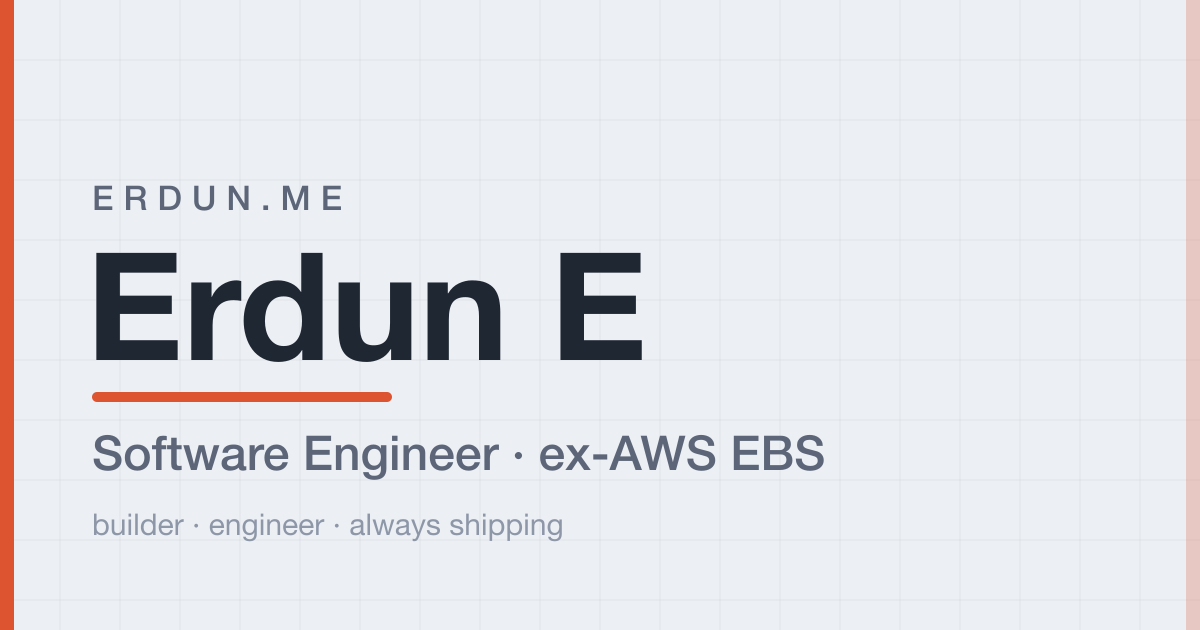
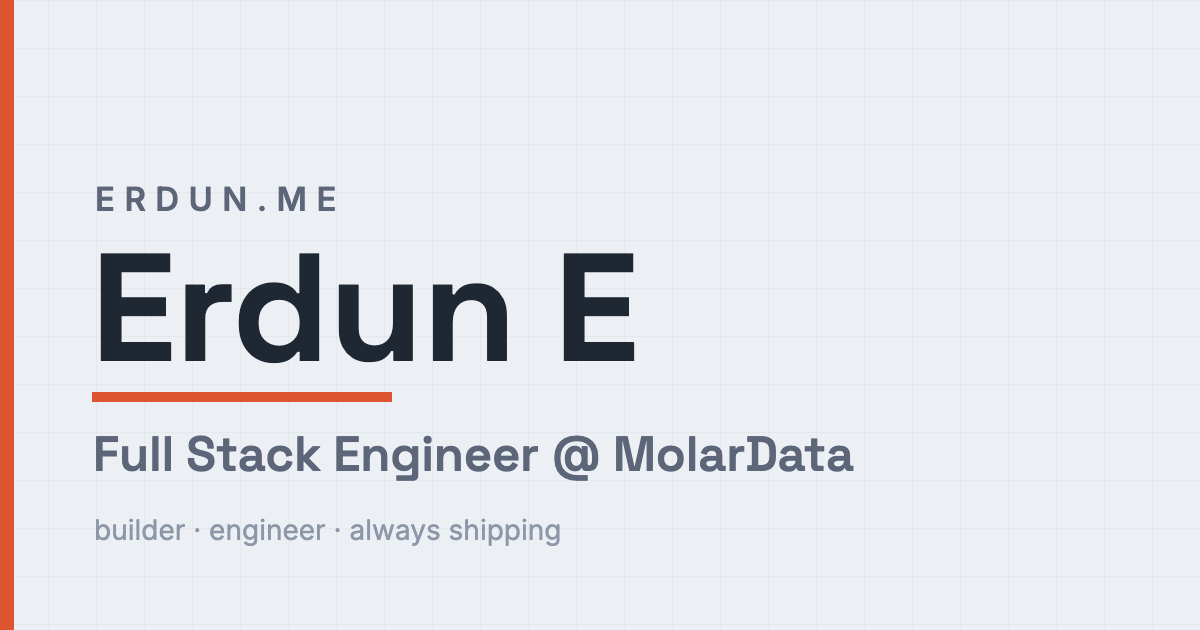
fix: refresh the share card, repair the Contact pronouns, cap a stray line length
**Share card.** og.png, og:title and og:description were written once
and never moved with the site, so the preview people see when the link
is pasted anywhere still said "Software Engineer · ex-AWS EBS" — a
line that no longer appears on the page at all — and mentioned neither
Hangzhou nor MolarData. The image is rebuilt on the same layout
(1200x630, blueprint grid, 14px accent bar, ERDUN.ME kicker, 300px
rule) with only the role line changed; measured against the old one it
matches its widths to within 1-3%. Title, description and the JSON-LD
Person follow, and the Person now carries worksFor and address.
og:image:alt was a second hardcoded copy of the title, so it now
references the title instead of drifting from it again.

**Contact pronouns.** "drop him a line" and "He is interested in..."
had no antecedent: the sentence that named Erdun was the one replaced
when the hiring language came out, and nothing else in the section
names anybody. The name goes back into the second line, which keeps
the opening question as written and restores the chain. A sweep of
every string on the site found no other dangling pronoun.

**Line length.** Experience, Projects and Testimonials all cap their
intro at max-w-3xl; Capability's lead and its technical-context note
did not, so they ran the full 1024px while every sibling stopped at
768. An omission rather than a choice, and the paragraph reflows to
the same three lines, so the section's height is unchanged.
[…]

diff --git a/web/src/lib/seo.ts b/web/src/lib/seo.ts
@@ -4,9 +4,9 @@ import { education } from "@/data/education";
 export const SITE = {
   url: "https://erdun.me",
   name: "Erdun E",
-  title: "Erdun E · Software Engineer",
+  title: "Erdun E · Full Stack Engineer",
   description:
-    "Erdun E, Software Engineer and ex-AWS EBS. Builder, engineer, always shipping. Portfolio of projects, experience, capabilities, and ways to get in touch.",
+    "Erdun E, Full Stack Engineer at MolarData in Hangzhou, ex-AWS. Builder, engineer, always shipping. Portfolio of projects, experience, and ways to get in touch.",
   ogImage: "https://erdun.me/og.png",
   locale: "en_US",
   themeColorLight: "#eceff4",
@@ -24,9 +24,20 @@ export const personJsonLd = {
   name: "Erdun E",
   url: SITE.url,
   image: SITE.ogImage,
-  jobTitle: "Software Engineer",
+  jobTitle: "Full Stack Engineer",
   description:
-    "Software Engineer and ex-AWS EBS, focused on reliable, maintainable systems.",
+    "Full Stack Engineer at MolarData in Hangzhou, previously at AWS. Focused on reliable, maintainable systems.",
+  worksFor: {
+    "@type": "Organization",
+    name: "MolarData",
+    url: "https://www.molardata.com/",
+  },
+  address: {
+    "@type": "PostalAddress",
+    addressLocality: "Hangzhou",
+    addressRegion: "Zhejiang",
+    addressCountry: "CN",
+  },
   sameAs,
   alumniOf: education.map((e) => ({
     "@type": "CollegeOrUniversity",

diff --git a/web/src/styles/global.css b/web/src/styles/global.css
@@ -649,6 +649,17 @@
     transform: scale(1.1);
   }
 }
+/* Hover lift, matching what the old cards had and what the three neighbouring
+   sections still do. Declared after the selected rule because the two have the
+   same specificity and source order decides. */
+@media (hover: hover) and (pointer: fine) and (prefers-reduced-motion: no-preference) {
+  .exp-node:hover .exp-node-tile {
+    transform: translateY(-3px);
+  }
+  .exp-node[aria-selected="true"]:hover .exp-node-tile {
+    transform: scale(1.1) translateY(-3px);
+  }
+}
 
 /* The sliding label. Each slot is exactly one node wide, so translating it by
    whole slots lands it centred under the selection. */
@@ -669,7 +680,7 @@
 }
 @media (prefers-reduced-motion: no-preference) {
   .exp-marker-slot {
-    transition: transform 320ms var(--ease-brand);
+    transition: transform var(--dur-base) var(--ease-brand);
   }
 }
 .exp-marker-caret {

diff --git a/web/src/data/profile.ts b/web/src/data/profile.ts
@@ -21,7 +21,7 @@ export const profile = {
   contact: {
     status: "Full Stack Engineer @ MolarData · Hangzhou, China",
     intro:
-      "Want to build something together?\nHave a cool open source project you need help with?\nOr just want to chat tech, drop him a line!",
+      "Want to build something together?\nHave a cool open source project Erdun can help with?\nOr just want to chat tech, drop him a line!",
     detail:
       "He is interested in working on challenging projects. Feel free to reach out through any of the channels.",
     resumeLabel: "View My Resume",
